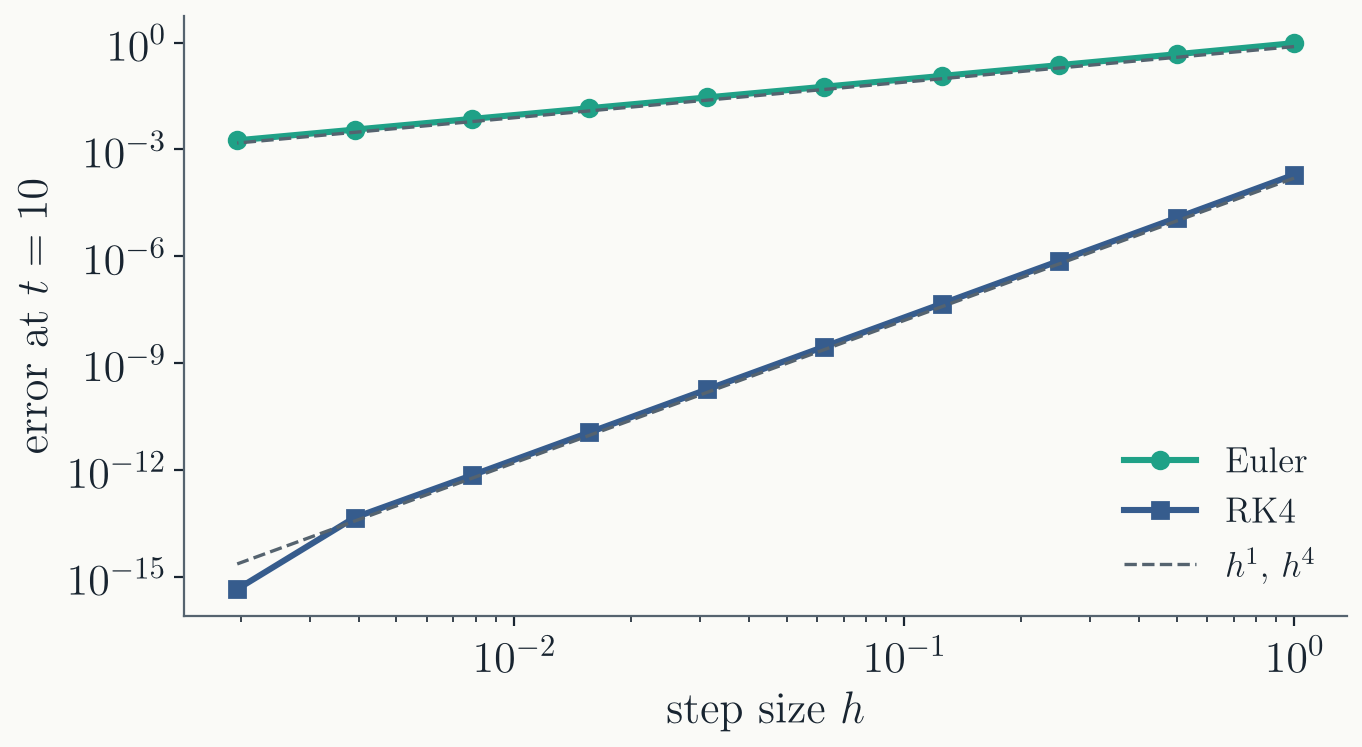
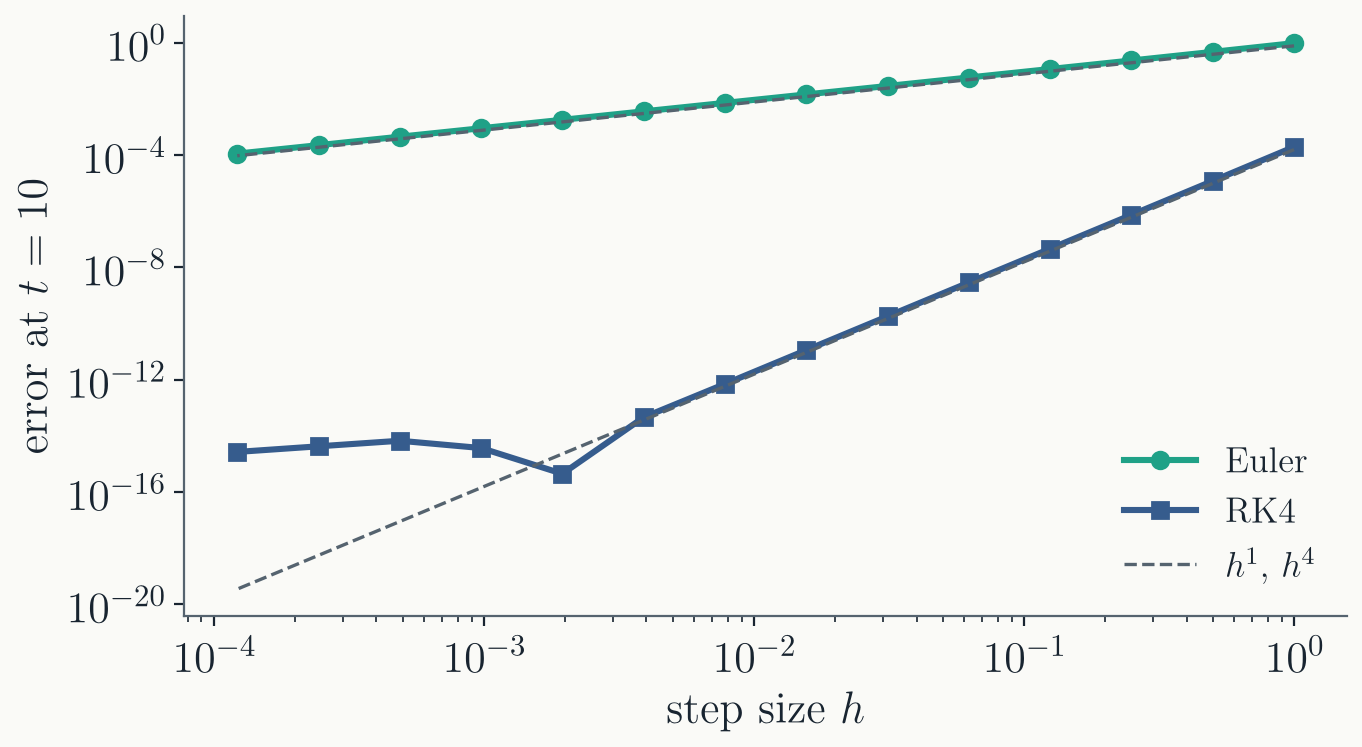
Lecture 6: honest rounding floor on the convergence plot
Extended the plot to h = 2^-13 so the RK4 floor shows as a plateau
near 1e-15 above the h^4 line, instead of ending on a single point
that dipped below it. The dip at the crossover is truncation and
roundoff partially cancelling (measured with a long-double
reference: -2.7e-15 + 3.2e-15); the speaker note carries the
decomposition. Slide bullet reworded to match.

Claude-Session: https://claude.ai/code/session_0159JUpTGoHD3rNAxwaaQ4Xs

diff --git a/Lecture 6/index.html b/Lecture 6/index.html
@@ -62,9 +62,8 @@
             <li class="fragment">Example: $dy/dt = -y$ has the solutions
               $y(t) = C e^{-t}$. An ODE alone never fixes the constant;
               some extra condition has to.</li>
-            <li class="fragment">$y$ can be a vector: several unknown
-              functions, coupled through one $f$. Everything today works
-              componentwise.</li>
+            <li class="fragment">$y$ can be a vector $\mathbf{y}$: several unknown
+              functions, coupled through one vector function $\vec{f}$.</li>
           </ul>
         </section>
 
@@ -76,14 +75,14 @@
           <p class="fragment" style="font-size: 0.9em;">Define
             $\omega = \dot\theta$ and it becomes a first-order system:</p>
           <div class="fragment">
-          $$y = \begin{pmatrix} \theta \\ \omega \end{pmatrix},
+          $$\mathbf{y} = \begin{pmatrix} \theta \\ \omega \end{pmatrix},
             \qquad
-            \frac{dy}{dt} = f(y) = \begin{pmatrix} \omega \\
-            -\tfrac{g}{L}\sin\theta \end{pmatrix}$$
+            \frac{d\mathbf{y}}{dt} = \vec{f}(\mathbf{y}) = \begin{pmatrix} \omega \\
+            \displaystyle -\frac{g}{L}\sin\theta \end{pmatrix}$$
           </div>
           <p class="fragment why">Any $n$-th order ODE becomes a system of
             $n$ first-order ODEs this way. Solvers only ever need to handle
-            $dy/dt = f(t, y)$.</p>
+            $d\mathbf{y}/dt = \vec{f}(t, \mathbf{y})$.</p>
         </section>
 
         <section>
@@ -159,8 +158,7 @@
               the numerical solution blows up even though the true
               solution decays. Defined and analyzed next lecture.</li>
           </ul>
-          <p class="fragment why">Euler is the idea every other solver
-            refines. Almost nobody should use it as-is.</p>
+          <p class="fragment why">Almost nobody should use Euler as-is.</p>
         </section>
 
         <!-- ============ Part III: Runge-Kutta ============ -->
@@ -185,7 +183,7 @@
         </section>
 
         <section>
-          <h2>The midpoint method is second order</h2>
+          <h2>Error of the midpoint method</h2>
           <p style="font-size: 0.85em;">Expand $y(t + h)$ and $y(t)$ around
             the midpoint, writing $y_m = y(t + h/2)$:</p>
           $$\begin{align}
@@ -197,6 +195,9 @@
           <div class="fragment">
           $$y(t + h) = y(t) + h\, y'\!\left(t + \tfrac{h}{2}\right) + O(h^3)$$
           </div>
+          <p class="fragment" style="font-size: 0.85em;">
+            What is the cumulative error?
+          </p>
           <p class="fragment why" style="font-size: 0.72em;">Stepping with
             the midpoint slope is exact through $h^2$. Same symmetry
             cancellation as the trapezoid error in Lecture 5.</p>
@@ -250,9 +251,10 @@
             <li class="fragment">If $f$ depends only on $t$, the ODE is an
               integral, and RK4 reduces exactly to Simpson's rule: the
               weights $\tfrac16, \tfrac13, \tfrac13, \tfrac16$ are
-              Simpson's $1, 4, 1$ over a double interval.</li>
-            <li class="fragment">Where the coefficients come from, and why
-              four stages buy four orders, is next lecture.</li>
+              Simpson's $1, 4, 1$ over a double interval, since both $k_2$ and
+              $k_3$ are evaluated at the midpoint.</li>
+            <!-- <li class="fragment">Where the coefficients come from, and why
+                 four stages buy four orders, is next lecture.</li> -->
           </ul>
           <p class="fragment why">For much of physics, RK4 is the default
             solver. In many papers "Runge-Kutta" means RK4.</p>
@@ -298,7 +300,7 @@
         </section>
 
         <section>
-          <h2>RK4 at the same cost</h2>
+          <h2>RK4 comparison</h2>
           <p style="font-size: 0.9em;">Both methods with the very coarse
             step $h = 1$:</p>
           <img src="figures/rk4_vs_euler.png" style="width: 58%; margin: 0 auto; display: block;"
@@ -316,9 +318,9 @@
             alt="Log-log error at t = 10 against h: Euler on the h^1 line, RK4 on the h^4 line down to machine precision">
           <ul style="font-size: 0.75em;">
             <li class="fragment">Measured slopes: $1.006$ and $4.005$.</li>
-            <li class="fragment">At the smallest $h$, RK4 leaves its line
-              and lands at $10^{-15}$: the rounding floor, reached after
-              $5000$ steps.</li>
+            <li class="fragment">Below $h \approx 10^{-3}$, RK4 leaves its
+              line and flattens near $10^{-15}$: the rounding floor.
+              Smaller steps buy nothing more.</li>
           </ul>
           <aside class="notes">
             Convergence testing is the everyday tool: solve at h and h/2,
@@ -326,14 +328,24 @@
             step is too big. Ask which slope you would rather be on when
             each digit is a factor 10 (Euler) vs a factor 1.8 (RK4) in
             cost.
+            If asked about the single point DIPPING BELOW the h^4 line at
+            the crossover (h = 1/512): total error = truncation + roundoff,
+            and they are signed. Measured with a long-double reference:
+            truncation -2.7e-15, roundoff +3.2e-15, total +5e-16. Opposite
+            signs, near cancellation: luck at that one h. Past the
+            crossover the truncation collapses and signed roundoff
+            (a few 1e-15, slowly growing with the number of steps)
+            dominates, which is the flat tail sitting ABOVE the
+            extrapolated line. The floor is a band, not a line, and
+            individual points near the crossover can land on either side.
           </aside>
         </section>
 
         <section>
           <h2>Without an exact solution</h2>
           <ul style="font-size: 0.9em;">
-            <li>The test problem had $\sin t$ to compare against. A real
-              problem has nothing.</li>
+            <li>The test problem had $\sin t$ to compare against. In a real
+              problem we do not know the solution in advance.</li>
             <li class="fragment">The practical check: solve at $h$ and at
               $h/2$, and compare. If the two agree to your tolerance, the
               answer can be trusted at that level; if not, refine.</li>

diff --git a/Lecture 6/make_figures.py b/Lecture 6/make_figures.py
@@ -87,7 +87,7 @@ print(f"h=1: euler max err = {np.max(np.abs(ys_e - np.sin(ts_e))):.3f}, "
       f"rk4 max err = {np.max(np.abs(ys_r - np.sin(ts_r))):.2e}")
 
 # 4. convergence: global error at t = 10 vs h, slopes 1 and 4
-hs = np.array([1.0 / 2**k for k in range(0, 10)])
+hs = np.array([1.0 / 2**k for k in range(0, 14)])
 err_e, err_r = [], []
 for h in hs:
     n = int(round(10.0 / h))
